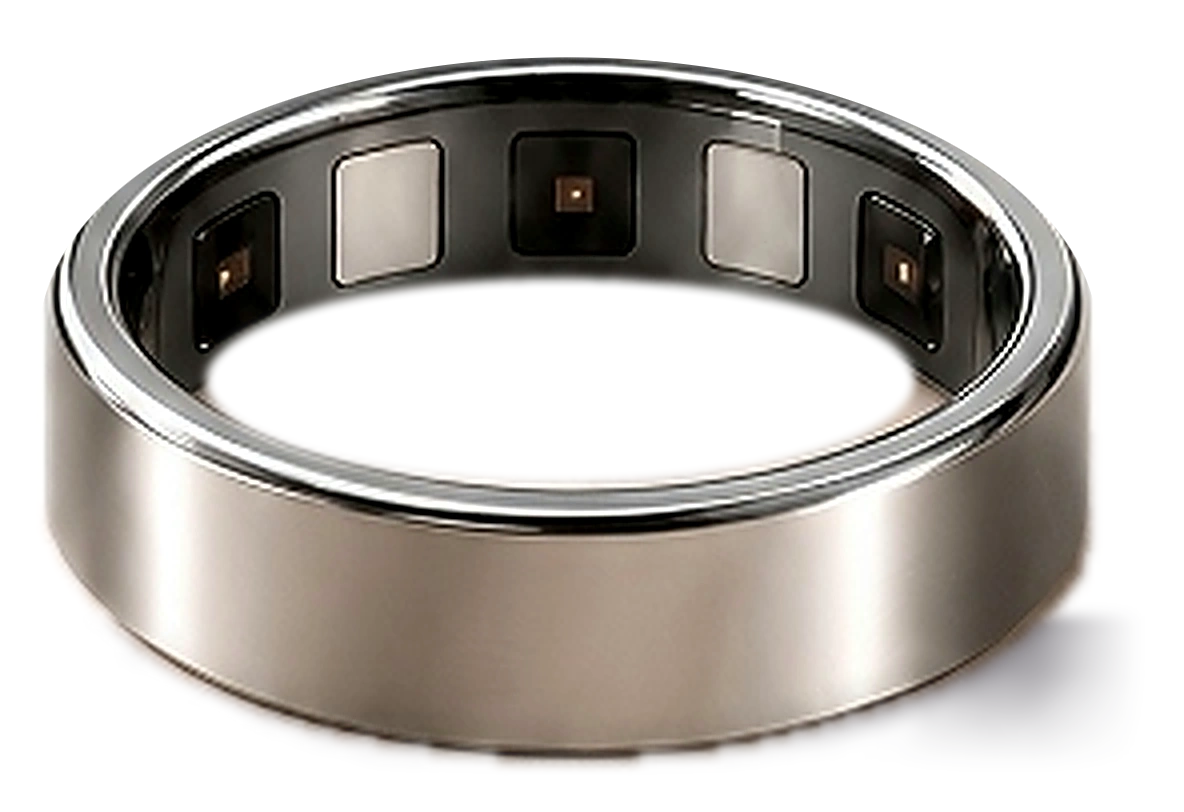
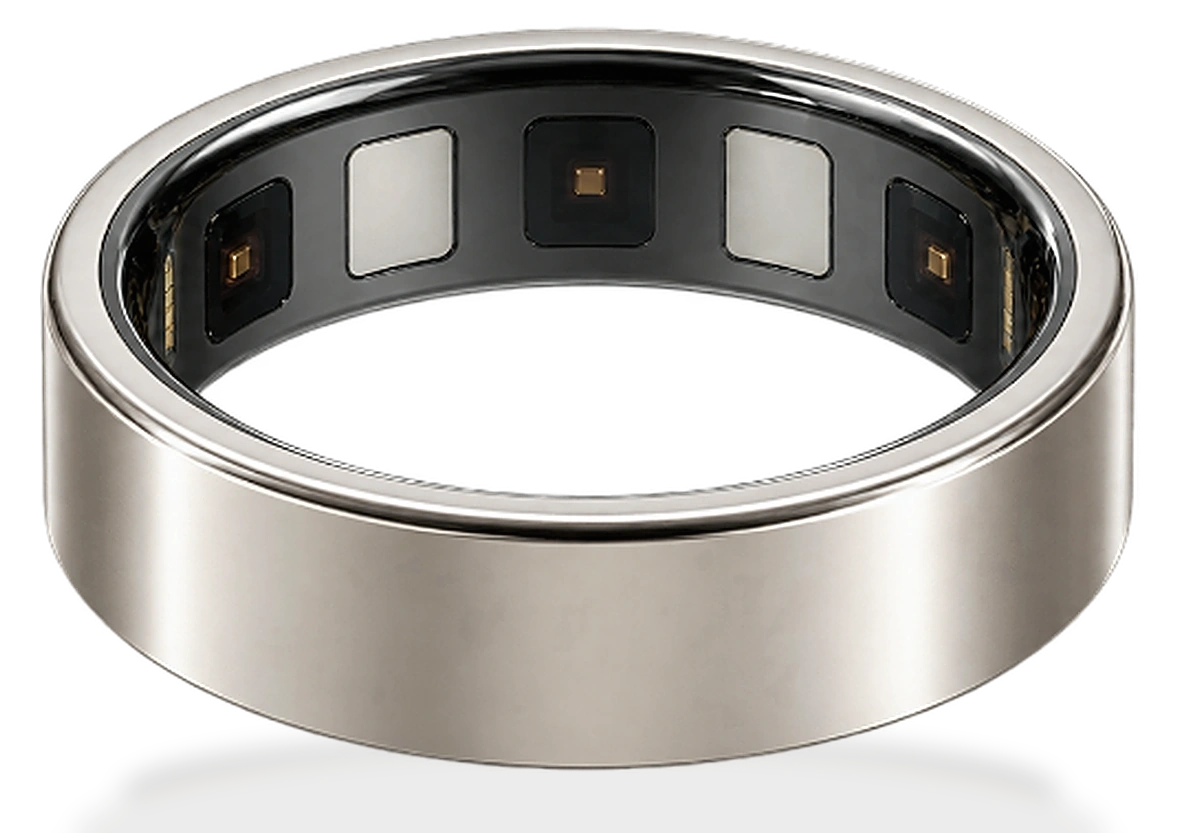
fix(landing): upgrade 3fig difference ring image to studio render and center-align mobile keywords bundle

diff --git a/components/threefig/skin-difference-section.tsx b/components/threefig/skin-difference-section.tsx
@@ -43,58 +43,61 @@ export function SkinDifferenceSection() {
               src="/images/threefig-ring-oblique-isolated.webp"
               alt="3FIG Smart Ring in brushed titanium oblique view"
               className="skin-diff-ring-img"
-              width={1184}
-              height={812}
+              width={1180}
+              height={833}
               loading="eager"
               draggable={false}
             />
           </div>
 
-          {/* Keyword 01: SLEEP (Top-Left on desktop / 1st on mobile) */}
-          <div className="skin-diff-editorial-keyword skin-diff-keyword-sleep">
-            <span className="skin-diff-keyword-num">01</span>
-            <div className="skin-diff-keyword-icon">
-              <Moon size={28} strokeWidth={1.8} />
+          {/* Keywords Wrapper: Symmetrical triad on desktop, centered column bundle on mobile */}
+          <div className="skin-diff-keywords-wrap">
+            {/* Keyword 01: SLEEP (Top-Left on desktop / 1st on mobile) */}
+            <div className="skin-diff-editorial-keyword skin-diff-keyword-sleep">
+              <span className="skin-diff-keyword-num">01</span>
+              <div className="skin-diff-keyword-icon">
+                <Moon size={28} strokeWidth={1.8} />
+              </div>
+              <div className="skin-diff-keyword-text">
+                <h3 className="skin-diff-keyword-title">Sleep</h3>
+                <p className="skin-diff-keyword-sub">
+                  How well your body
+                  <br className="skin-mobile-break" />
+                  restores overnight.
+                </p>
+              </div>
             </div>
-            <div className="skin-diff-keyword-text">
-              <h3 className="skin-diff-keyword-title">Sleep</h3>
-              <p className="skin-diff-keyword-sub">
-                How well your body
-                <br className="skin-mobile-break" />
-                restores overnight.
-              </p>
-            </div>
-          </div>
 
-          {/* Keyword 02: STRESS (Top-Right on desktop / 2nd on mobile) */}
-          <div className="skin-diff-editorial-keyword skin-diff-keyword-stress">
-            <span className="skin-diff-keyword-num">02</span>
-            <div className="skin-diff-keyword-icon">
-              <Activity size={28} strokeWidth={1.8} />
+            {/* Keyword 02: STRESS (Top-Right on desktop / 2nd on mobile) */}
+            <div className="skin-diff-editorial-keyword skin-diff-keyword-stress">
+              <span className="skin-diff-keyword-num">02</span>
+              <div className="skin-diff-keyword-icon">
+                <Activity size={28} strokeWidth={1.8} />
+              </div>
+              <div className="skin-diff-keyword-text">
+                <h3 className="skin-diff-keyword-title">Stress</h3>
+                <p className="skin-diff-keyword-sub">
+                  How daily load shows up
+                  <br className="skin-mobile-break" />
+                  beneath the surface.
+                </p>
+              </div>
             </div>
-            <div className="skin-diff-keyword-text">
-              <h3 className="skin-diff-keyword-title">Stress</h3>
-              <p className="skin-diff-keyword-sub">
-                How daily load shows up
-                <br className="skin-mobile-break" />
-                beneath the surface.
-              </p>
-            </div>
-          </div>
 
-          {/* Keyword 03: NUTRITION (Bottom-Center on desktop / 3rd on mobile) */}
-          <div className="skin-diff-editorial-keyword skin-diff-keyword-nutrition">
-            <span className="skin-diff-keyword-num">03</span>
-            <div className="skin-diff-keyword-icon">
-              <Utensils size={28} strokeWidth={1.8} />
-            </div>
-            <div className="skin-diff-keyword-text">
-              <h3 className="skin-diff-keyword-title">Nutrition</h3>
-              <p className="skin-diff-keyword-sub">
-                How daily nourishment aligns
-                <br className="skin-mobile-break" />
-                with your skin baseline.
-              </p>
+            {/* Keyword 03: NUTRITION (Bottom-Center on desktop / 3rd on mobile) */}
+            <div className="skin-diff-editorial-keyword skin-diff-keyword-nutrition">
+              <span className="skin-diff-keyword-num">03</span>
+              <div className="skin-diff-keyword-icon">
+                <Utensils size={28} strokeWidth={1.8} />
+              </div>
+              <div className="skin-diff-keyword-text">
+                <h3 className="skin-diff-keyword-title">Nutrition</h3>
+                <p className="skin-diff-keyword-sub">
+                  How daily nourishment aligns
+                  <br className="skin-mobile-break" />
+                  with your skin baseline.
+                </p>
+              </div>
             </div>
           </div>
         </div>

diff --git a/app/landing.css b/app/landing.css
@@ -998,11 +998,15 @@
   transform: translate(-50%, -50%);
   width: 250px;
   height: auto;
-  aspect-ratio: 294 / 202;
+  aspect-ratio: 1180 / 833;
   z-index: 2;
   display: flex;
   align-items: center;
   justify-content: center;
+}
+
+.skin-diff-keywords-wrap {
+  display: contents;
 }
 
 .skin-diff-ring-core-glow {
@@ -1286,11 +1290,22 @@
     top: auto;
     left: auto;
     transform: none !important;
-    width: min(180px, 48vw);
+    width: min(200px, 52vw);
     height: auto;
-    aspect-ratio: 294 / 202;
+    aspect-ratio: 1180 / 833;
     margin: 0 auto 28px;
     flex-shrink: 0;
+  }
+
+  /* Keywords on mobile: Centered bundle directly under the ring */
+  .skin-diff-keywords-wrap {
+    display: flex;
+    flex-direction: column;
+    align-items: flex-start;
+    gap: 22px;
+    width: fit-content;
+    max-width: 100%;
+    margin-inline: auto;
   }
 
   /* Keywords on mobile: Icon on left, Title + 2-line Sub bundled on right */
@@ -1308,17 +1323,17 @@
     align-items: flex-start !important;
     text-align: left !important;
     gap: 16px !important;
-    width: 100% !important;
-    max-width: 290px !important;
-    margin: 0 auto !important;
-    padding-bottom: 22px !important;
+    width: fit-content !important;
+    max-width: 100% !important;
+    margin: 0 !important;
+    padding-bottom: 0 !important;
   }
 
   .skin-diff-keyword-nutrition {
     padding-bottom: 0 !important;
-    width: 100% !important;
-    max-width: 290px !important;
-    margin: 0 auto !important;
+    width: fit-content !important;
+    max-width: 100% !important;
+    margin: 0 !important;
   }
 
   /* Delete numbers on mobile as requested */
